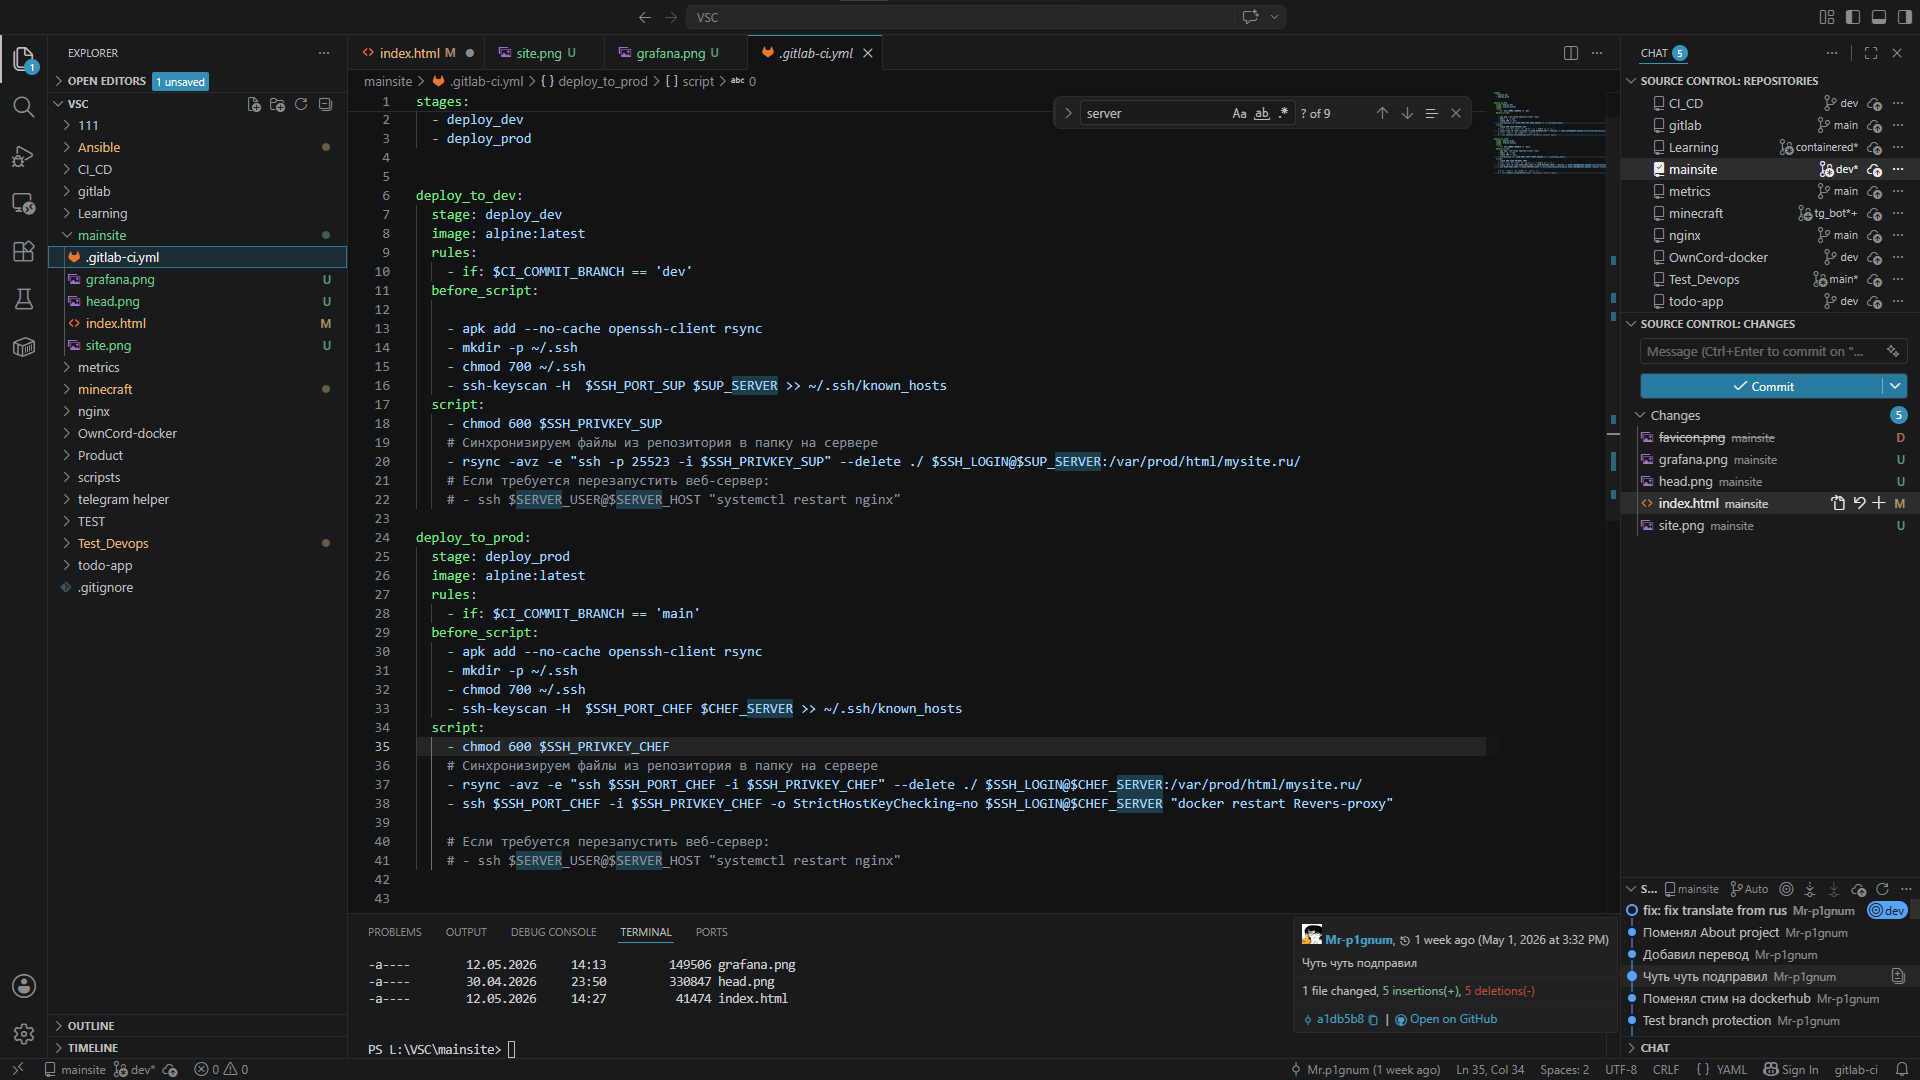
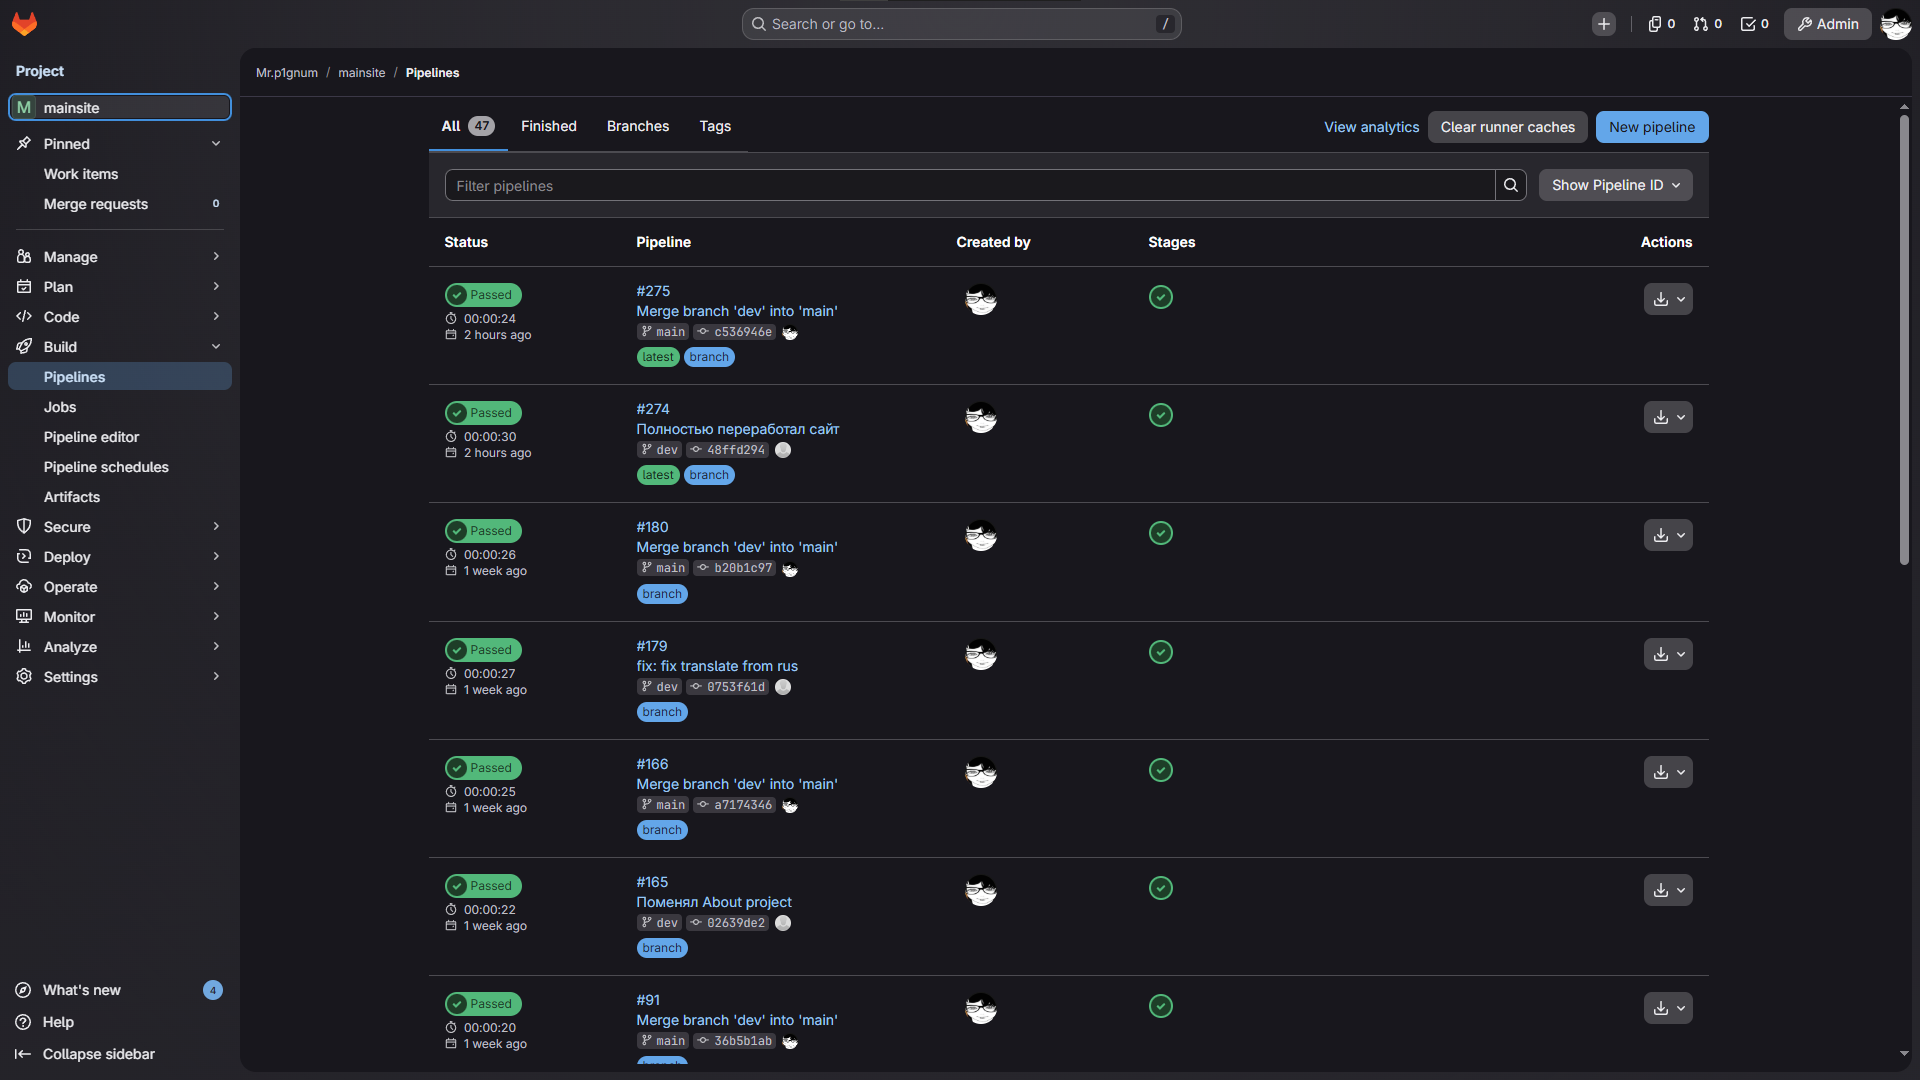
Чутка передеала + нашел прикольные картинки

diff --git a/index.html b/index.html
@@ -655,12 +655,12 @@
                 <h2 class="section-title" data-i18n="projects_title">Мои проекты</h2>
                 <div class="projects-list">
                     <!-- Проект 1 -->
-                    <div class="project-card" data-lightbox-src="https://picsum.photos/seed/devops1/1200/800" data-i18n-caption="project1_title" data-animate>
-                        <img class="project-img" src="https://picsum.photos/seed/devops1/1200/800" alt="DevOps инфраструктура" loading="lazy">
+                    <div class="project-card" data-lightbox-src="png/ansible.png" data-i18n-caption="project1_title" data-animate>
+                        <img class="project-img" src="png/ansible2.png" alt="DevOps инфраструктура" loading="lazy">
                         <div class="project-overlay">
                             <h3 data-i18n="project1_title">Инфраструктура как код</h3>
                             <p data-i18n="project1_desc">Ansible, автоматическая настройка серверов.</p>
-                            <a href="https://github.com/Mr-p1gnum/Ansible" target="_blank" rel="noopener" class="project-link" data-i18n="project1_link">Подробнее →</a>
+                            <a href="https://github.com/Mr-p1gnum/Ansible" target="_blank" rel="noopener" class="project-link" data-i18n="project1_link">Исходники →</a>
                         </div>
                     </div>
                     <!-- Проект 2 -->
@@ -669,7 +669,7 @@
                         <div class="project-overlay">
                             <h3 data-i18n="project2_title">Система мониторинга</h3>
                             <p data-i18n="project2_desc">Prometheus + Grafana, дашборды для всех сервисов.</p>
-                            <a href="https://github.com/Mr-p1gnum/metrics" target="_blank" rel="noopener" class="project-link" data-i18n="project2_link">Посмотреть →</a>
+                            <a href="https://github.com/Mr-p1gnum/metrics" target="_blank" rel="noopener" class="project-link" data-i18n="project2_link">Исходники →</a>
                         </div>
                     </div>
                     <!-- Проект 3 -->
@@ -682,12 +682,6 @@
                         </div>
                     </div>
                      <!-- Проект 4 -->
-                    <div class="project-card" data-lightbox-src="grafana.png" data-i18n-caption="project2_title" data-animate>
-                        <img class="project-img" src="grafana2.png" alt="Боты" loading="lazy">
-                        <div class="project-overlay">
-                            <h3 data-i18n="project2_title">Телеграмм боты для мониторинга</h3>
-                            <p data-i18n="project2_desc">ТЕСТ.</p>
-                            
                         </div>
                     </div>
                 </div>
@@ -698,7 +692,7 @@
         <section id="about" class="container">
             <h2 class="section-title" data-i18n="about_title">Обо мне</h2>
             <div class="about-flex">
-                <img class="about-photo" src="https://picsum.photos/seed/avatar/400/400" alt="Фото профиля" loading="lazy">
+                <img class="about-photo" src="png/avatar.png" alt="Фото профиля" loading="lazy">
                 <div class="about-text" data-i18n="about_desc">
                     <!-- заполняется скриптом -->
                 </div>
@@ -761,10 +755,10 @@
                     projects_title: "Мои проекты",
                     project1_title: "Инфраструктура как код",
                     project1_desc: "Ansible, автоматическая настройка серверов.",
-                    project1_link: "Подробнее →",
+                    project1_link: "Исходники →",
                     project2_title: "Система мониторинга",
                     project2_desc: "Prometheus + Grafana, дашборды для всех сервисов.",
-                    project2_link: "Посмотреть →",
+                    project2_link: "Исходники →",
                     project3_title: "Вот этот сайт",
                     project3_desc: "Автоматический деплой статики из GitLab CI на свой хост.",
                     project3_link: "Исходники →",
@@ -800,10 +794,10 @@
                     projects_title: "My projects",
                     project1_title: "Infrastructure as Code",
                     project1_desc: "Ansible, automated server configuration.",
-                    project1_link: "Details →",
+                    project1_link: "Source →",
                     project2_title: "Monitoring System",
                     project2_desc: "Prometheus + Grafana dashboards for all services.",
-                    project2_link: "View →",
+                    project2_link: "Source →",
                     project3_title: "This website",
                     project3_desc: "Automatic static site deployment from GitLab CI to my own host.",
                     project3_link: "Source →",
